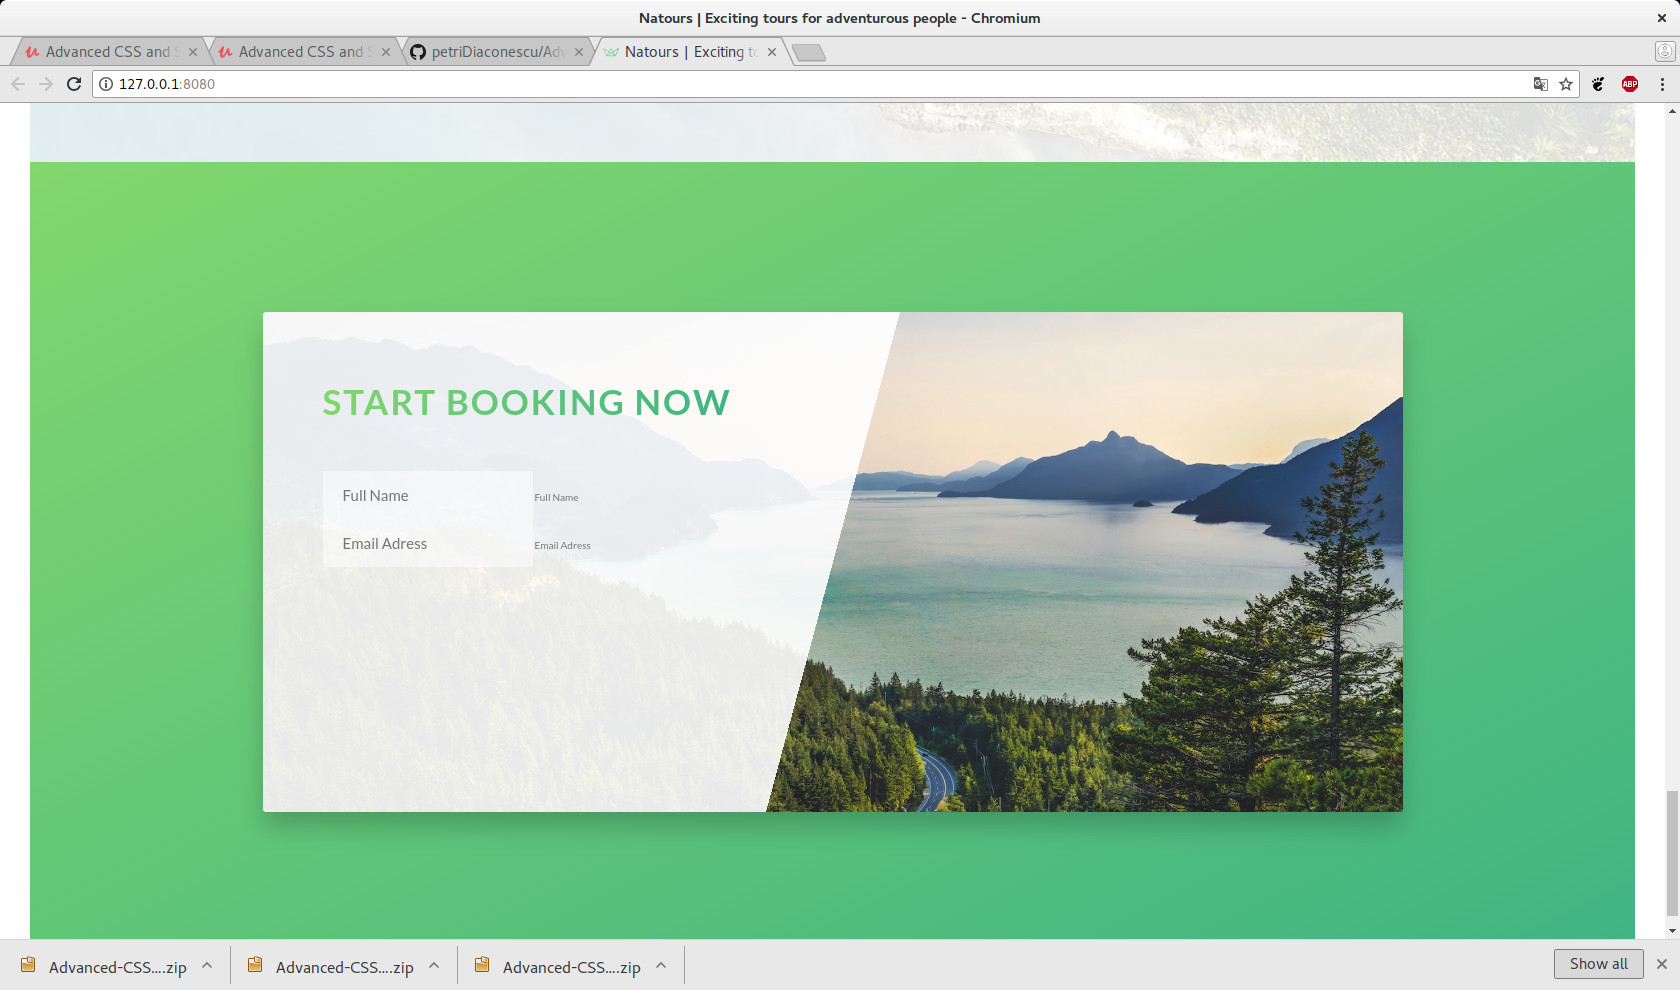
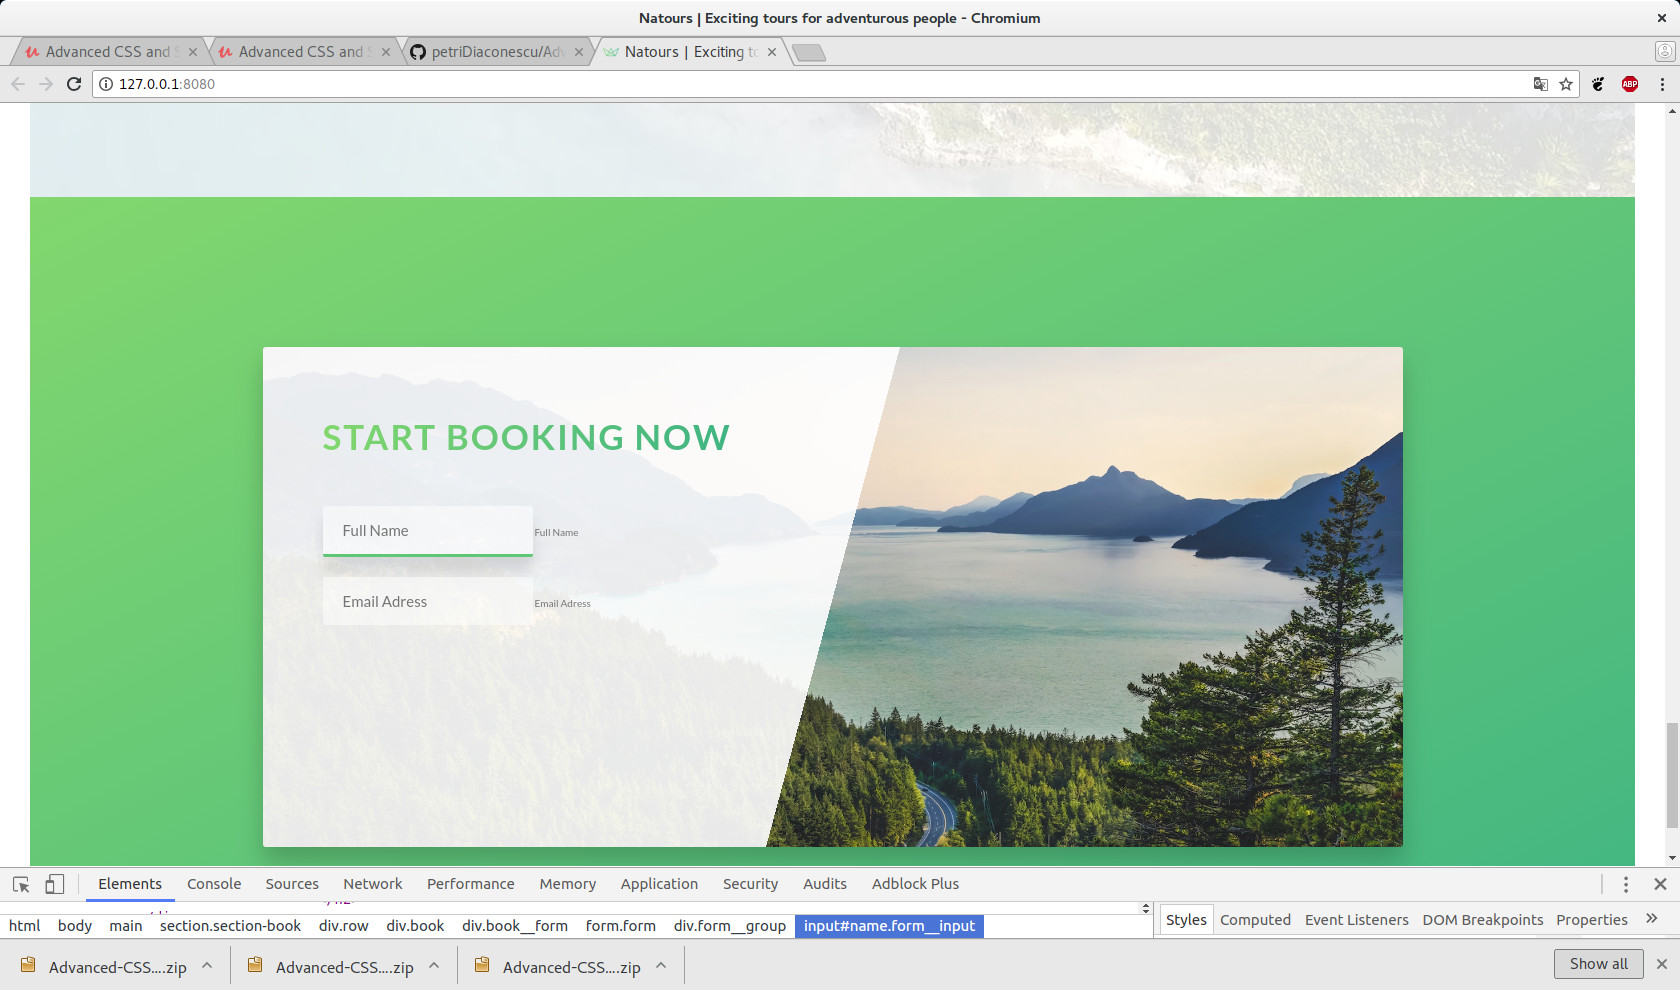
When we click over the label alongside an input, the input enter in focus state. Before has a blue border around in this state. Remove that border with outline:none, but for accesibility reasons add a border-bottom and box-shadow. Always make the form elements that are focused visible

diff --git a/sass/components/_form.scss b/sass/components/_form.scss
@@ -1,6 +1,6 @@
 .form {
-  &__group {
-    
+  &__group:not(:last-child) {
+    margin-bottom: 2rem;
   }
   
   &__input {
@@ -10,6 +10,12 @@
     border-radius: 2px;
     background-color: rgba($color-white, .5);
     border: none;
+  }
+  
+  &__input:focus {
+    outline: none;
+    box-shadow: 0 1.5rem 2rem rgba($color-black, .1);
+    border-bottom: 3px solid $color-primary;
   }
   
   &__label {
